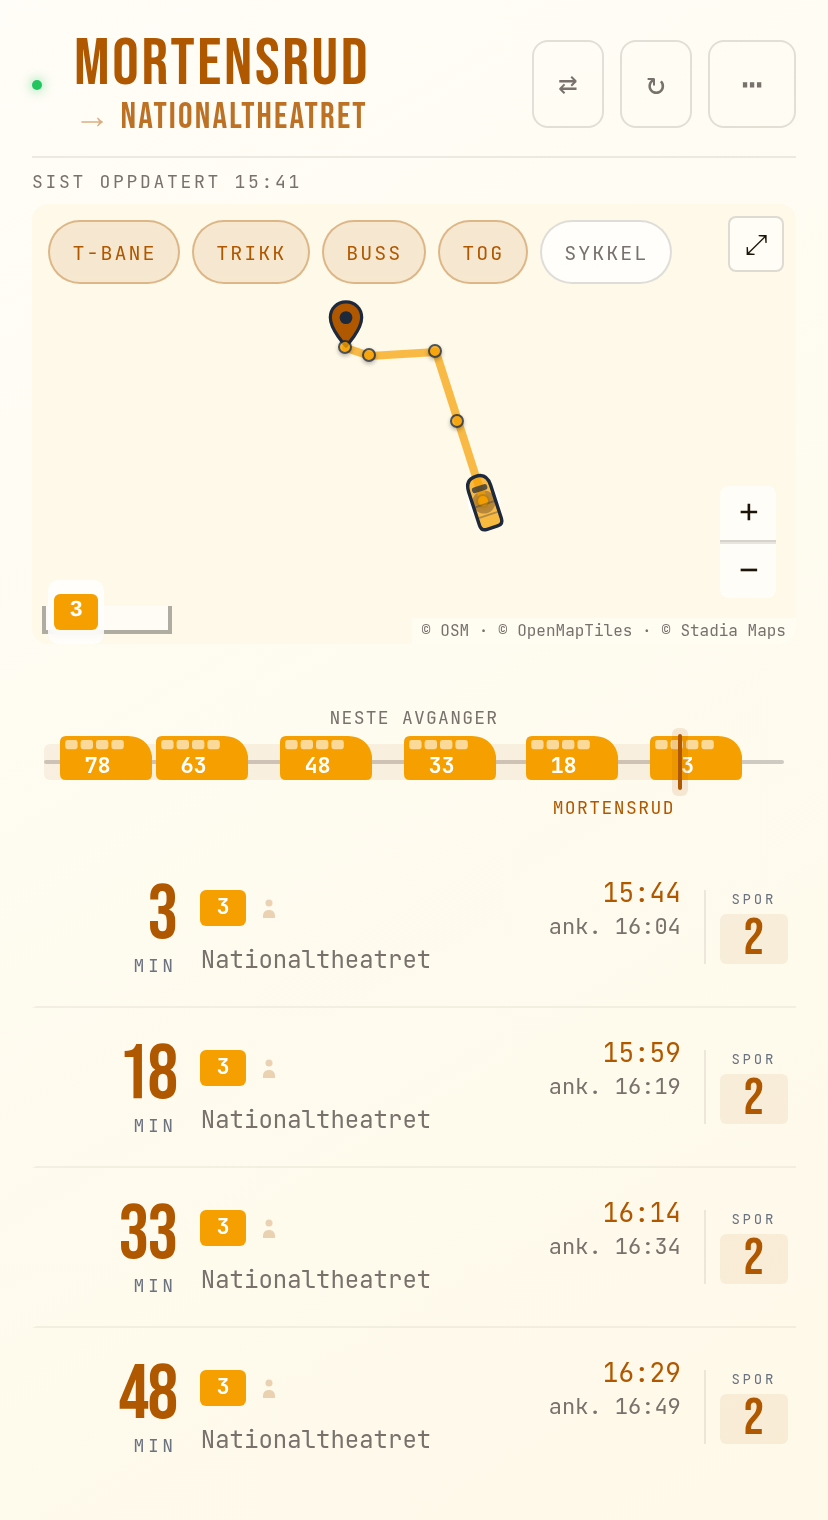
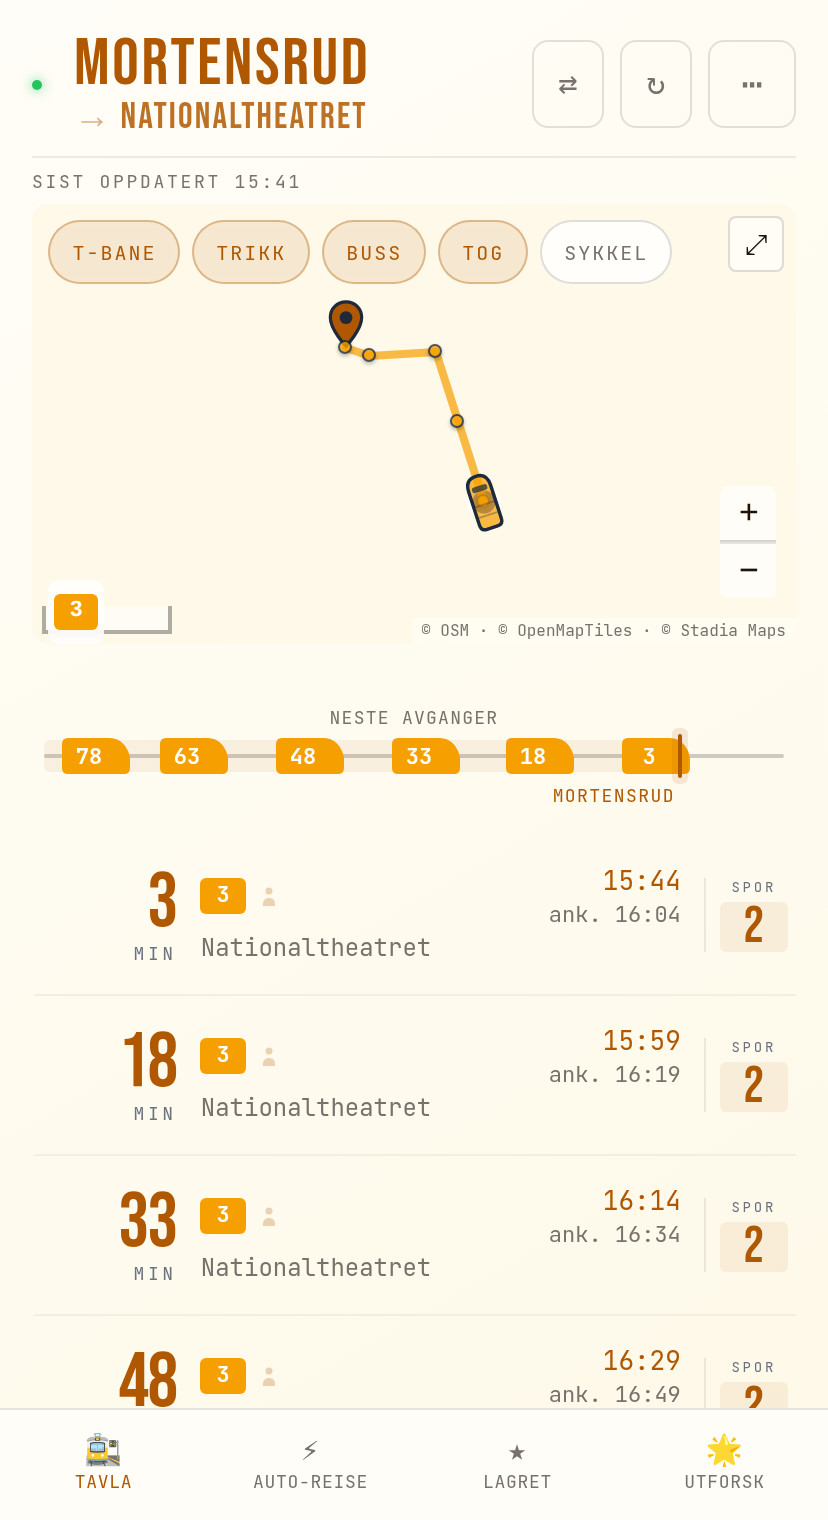
v1.65.0: Mindre vogn, tydeligere tall (#298)
Rapportert: «ikonene på strip er mindre og enklere — slik at betydningen
kommer tydeligere frem.»

Det er en korreksjon av v1.59.0, og den er riktig. Den gangen sa pilla
ingenting, og jeg svarte med et sidebilde — og fortsatte å legge på detalj
til det leste som en vogn: vindusbånd delt i ruter, hjul under trikk og buss,
kraftig neserake, 40–48 px bred. Detaljene ble det du ser først, og minuttene
er det du handler på.

Nå: kropp, farge, tall. Ingenting mer. Kroppen mistet en fjerdedel av bredden
mens tallet beholdt 11 px, så forholdet mellom dem er snudd uten at tallet er
blitt vanskeligere å lese. Stripa er tilbake på 22 px, og alt som var festet
til de 28 — skinnelinja, sonetonen, «du er her»-merket, avgangsanimasjonen —
fulgte med ned.

Én ting målt og verdt å si rett ut: da vinduene og hjulene forsvant, ble de
fire modusene tegnet i samme farge til forveksling like. Det ble sjekket ved
å rendre dem uten farge, ikke antatt. Så nesa fikk hele formbudsjettet — tog
raker tilbake nesten halve lengden, buss har rett front — og det hjelper fra
2× og opp. Ved faktisk størrelse er det fargen som bærer modus. Det er en
reell konsekvens av forenklingen du ba om, og den bør stå skrevet framfor å
bli påstått bort: for en fargeblind leser er modusskillet på stripa svakere
enn før. Linjebadgen i raden under sier det fortsatt.

Målt: tettheten er uendret. En smalere glyf klynger mindre i teorien, men på
en fikstur med avgang annethvert minutt ga både før og etter 7 glyfer, 3
[…]

diff --git a/src/ui/mapIcons.js b/src/ui/mapIcons.js
@@ -209,11 +209,14 @@ export function makeVehicleIcon(mode, color, opts = {}) {
  * @param {boolean} [dim] the quieter treatment for a train already gone
  */
 const _SIDE = {
-  //        nose = how far the front rakes back    wheels for road/street rail
-  metro: { len: 46, nose: 12, wheels: false },
-  rail:  { len: 48, nose: 16, wheels: false },
-  tram:  { len: 44, nose: 10, wheels: true },
-  bus:   { len: 40, nose: 7,  wheels: true },
+  // With the panes and wheels gone, the nose is the ONLY shape left to tell
+  // the modes apart, so it carries the whole spread: a rail set rakes back
+  // half its length, a bus front is square. Checked by rendering all four in
+  // one colour — at 34/36/32/30 with a gentle rake they were the same lozenge.
+  metro: { len: 34, nose: 10 },
+  rail:  { len: 38, nose: 16 },
+  tram:  { len: 32, nose: 6 },
+  bus:   { len: 30, nose: 0 },
 };
 
 export function sideVehicleSvg(mode, color, label, dim) {
@@ -223,48 +226,37 @@ export function sideVehicleSvg(mode, color, label, dim) {
   const m = _SIDE[mode] ? mode : 'metro';
   const sh = _SIDE[m];
   const body = color || _MODE_COLOUR[m];
-  const w = sh.len, h = 26;
-  const bh = sh.wheels ? 20 : 22;           // wheels need room beneath
-  const y = 1;
+  const w = sh.len, h = 22;
+  const bh = 18;
+  const y = 2;
   const r = (n) => Math.round(n * 100) / 100;
   // Nose to the RIGHT: the strip runs left to right towards your stop, so the
   // vehicle faces the way it is travelling and the way the reader is reading.
-  // The rake is the whole silhouette at this size — a subtle one was tried
-  // first, and read as a rounded rectangle with a dot on it.
+  // The rake is gentler than v1.59.0's — at this size a hard wedge reads as a
+  // shape being clever rather than as a front.
   const d = 'M0 ' + (y + 3)
     + 'Q0 ' + y + ' 3 ' + y
     + 'L' + r(w - sh.nose) + ' ' + y
-    + 'Q' + r(w - sh.nose * 0.15) + ' ' + r(y + 0.5) + ' ' + w + ' ' + r(y + bh * 0.45)
+    + 'Q' + r(w - sh.nose * 0.2) + ' ' + r(y + 0.5) + ' ' + w + ' ' + r(y + bh * 0.55)
     + 'L' + w + ' ' + r(y + bh - 3)
     + 'Q' + w + ' ' + r(y + bh) + ' ' + r(w - 3) + ' ' + r(y + bh)
     + 'L3 ' + r(y + bh) + 'Q0 ' + r(y + bh) + ' 0 ' + r(y + bh - 3) + 'Z';
-  // A window band along the roof, cut into panes — the same job the carriage
-  // joints do in the plan view: it says "vehicle" before anything is read.
-  const bandY = y + 2, bandH = 4.6;
-  const bandEnd = w - sh.nose * 0.55;
-  const panes = [];
-  const paneW = 6.2;
-  for (let x = 2.6; x + paneW < bandEnd; x += paneW + 1.5) {
-    panes.push('<rect x="' + r(x) + '" y="' + r(bandY) + '" width="' + paneW
-      + '" height="' + bandH + '" rx="1.2" fill="#fff" opacity="' + (dim ? '.4' : '.6') + '"/>');
-  }
-  const wheels = sh.wheels
-    ? '<circle cx="' + r(w * 0.26) + '" cy="' + r(y + bh + 1.9) + '" r="2.4" fill="' + body + '"'
-      + ' fill-opacity="' + (dim ? '.55' : '1') + '"/>'
-      + '<circle cx="' + r(w * 0.72) + '" cy="' + r(y + bh + 1.9) + '" r="2.4" fill="' + body + '"'
-      + ' fill-opacity="' + (dim ? '.55' : '1') + '"/>'
-    : '';
-  // The minutes sit on the body's floor rather than under the band: "nå" has a
-  // ring over the å, and band-relative placement put it through the windows.
+  // Body, colour, number. Nothing else.
+  //
+  // v1.59.0 had a window band cut into panes and wheels under the road modes,
+  // and they worked — you could tell a bus from a train. Reported since: they
+  // are what you see FIRST, and the minutes are what you act on. So the body
+  // shrank by a quarter while the number stayed 11px, which inverts the two
+  // without making the number any harder to read; and the decoration went,
+  // because at 30px it was texture rather than information. Mode is still
+  // carried by length, by the rake of the nose, and above all by colour.
   return '<svg class="ls-veh" width="' + w + '" height="' + h + '"'
     + ' viewBox="0 0 ' + w + ' ' + h + '" aria-hidden="true" focusable="false">'
     + '<path d="' + d + '" fill="' + body + '" fill-opacity="' + (dim ? '.55' : '1') + '"/>'
-    + panes.join('')
-    + '<text x="' + r((w - sh.nose * 0.7) / 2) + '" y="' + r(y + bh - 3.5) + '"'
+    + '<text x="' + r((w - sh.nose * 0.7) / 2) + '" y="' + r(y + bh / 2 + 3.9) + '"'
     + ' text-anchor="middle" font-family="JetBrains Mono, ui-monospace, monospace"'
     + ' font-size="11" font-weight="700" fill="#fff"'
     + ' opacity="' + (dim ? '.85' : '1') + '">' + label + '</text>'
-    + wheels
     + '</svg>';
 }
 

diff --git a/tests/mapIcons.test.js b/tests/mapIcons.test.js
@@ -159,12 +159,48 @@ describe('sideVehicleSvg', () => {
     expect(new Set(widths).size).toBe(4);
   });
 
-  it('draws wheels under the road and street modes only', () => {
-    const circles = (m) => (svg(m, null, '5').match(/<circle/g) || []).length;
-    expect(circles('tram')).toBe(2);
-    expect(circles('bus')).toBe(2);
-    expect(circles('metro')).toBe(0);
-    expect(circles('rail')).toBe(0);
+  // v1.65.0, and the rule that replaced the wheels-and-windows one. Reported:
+  // "ikonene på strip er mindre og enklere - slik at betydningen kommer
+  // tydeligere frem". The window band and the wheels worked — you could tell a
+  // bus from a train — but they were what you saw FIRST, and the minutes are
+  // what you act on. Body, colour, number; nothing else. Without this test the
+  // decoration creeps back one detail at a time.
+  it('draws nothing but a body and its number', () => {
+    ['metro', 'rail', 'tram', 'bus'].forEach(m => {
+      const s = svg(m, null, '12');
+      expect((s.match(/<path/g) || []).length).toBe(1);
+      expect((s.match(/<text/g) || []).length).toBe(1);
+      expect(s).not.toContain('<circle');   // wheels
+      expect(s).not.toContain('<rect');     // window panes
+      expect(s).not.toContain('<line');
+    });
+  });
+
+  // With the decoration gone the nose is the ONLY shape left to separate the
+  // modes, so it has to carry a real spread — rendered in one colour, a gentle
+  // rake on all four made them the same lozenge. A rail set rakes back nearly
+  // half its length; a bus front is square.
+  it('spends its whole shape budget on the nose', () => {
+    const nose = (m) => {
+      const d = svg(m, null, '12').match(/<path d="([^"]*)"/)[1];
+      const w = Number(svg(m, null, '12').match(/\swidth="([^"]*)"/)[1]);
+      // The straight roof runs to (w - nose) before the rake begins.
+      return w - Number(d.match(/L([\d.]+) 2/)[1]);
+    };
+    expect(nose('bus')).toBe(0);
+    expect(nose('rail')).toBeGreaterThan(12);
+    expect(nose('rail')).toBeGreaterThan(nose('metro'));
+    expect(nose('metro')).toBeGreaterThan(nose('tram'));
+    expect(nose('tram')).toBeGreaterThan(nose('bus'));
+  });
+
+  // The number is why the glyph shrank at all: the body lost a quarter of its
+  // width while the label kept its size, which inverts the two. If the label
+  // ever shrinks with the body, the change has undone itself.
+  it('keeps the number at full size while the body is small', () => {
+    const s = svg('bus', null, '-12');
+    expect(s).toContain('font-size="11"');
+    expect(Number(s.match(/\swidth="([^"]*)"/)[1])).toBeLessThanOrEqual(38);
   });
 
   it('falls back to the metro silhouette for a mode it does not know', () => {
@@ -214,7 +250,10 @@ describe('sideVehicleSvg', () => {
     const gone = svg('metro', null, '-3', true);
     const here = svg('metro', null, '3', false);
     // Same parts, less presence — a departed train is context, not absence.
-    expect((gone.match(/<rect/g) || []).length).toBe((here.match(/<rect/g) || []).length);
+    // Compared on the parts that exist: the pane count this used to compare
+    // is zero on both sides now, which would pass without asserting anything.
+    expect((gone.match(/<path/g) || []).length).toBe((here.match(/<path/g) || []).length);
+    expect(gone).toContain('>-3</text>');
     expect(gone).toContain('fill-opacity=".55"');
     expect(here).toContain('fill-opacity="1"');
   });
@@ -226,8 +265,8 @@ describe('SIDE_VEHICLE_MAX_PX', () => {
   // board.test.js stubs this module and hardcodes the number, because the
   // strip reads it at module scope. Pinned here so a wider silhouette fails
   // in the one place that can see both sides.
-  it('is 48 — the number board.test.js stubs', () => {
-    expect(SIDE_VEHICLE_MAX_PX).toBe(48);
+  it('is 38 — the number board.test.js stubs', () => {
+    expect(SIDE_VEHICLE_MAX_PX).toBe(38);
   });
 
   it('is the widest silhouette any mode draws', () => {

diff --git a/src/style/board.css b/src/style/board.css
@@ -409,22 +409,22 @@
 }
 
 .ls-rail{
-  /* Room for a vehicle rather than a pill: a side view needs a window band
-     AND its minutes, and 22px could carry only one of them legibly. */
-  position:relative;height:28px;
+  /* 28px in v1.59.0, to carry a window band AND the minutes. The band is
+     gone (the decoration was what you saw first), so the height goes back. */
+  position:relative;height:22px;
   border-radius:2px;
 }
 .ls-rail::before{
-  content:"";position:absolute;left:0;right:0;top:13px;height:2px;
+  content:"";position:absolute;left:0;right:0;top:10px;height:2px;
   background:rgba(var(--text-muted-rgb),.35);border-radius:1px;
 }
 /* Tint behind each half, so the split reads before the captions are read. */
-.ls-zone{position:absolute;top:5px;height:18px;border-radius:3px}
+.ls-zone{position:absolute;top:3px;height:16px;border-radius:3px}
 .ls-zone-appr{left:0;background:rgba(var(--accent-rgb),.07)}
 
 /* Which way the line runs. One arrowhead for the whole rail. */
 .ls-arrow{
-  position:absolute;right:0;top:6px;
+  position:absolute;right:0;top:4px;
   width:0;height:0;
   border-top:5px solid transparent;
   border-bottom:5px solid transparent;
@@ -433,7 +433,7 @@
 
 /* Your stop: a divide between the two halves, not just another tick. */
 .ls-you{
-  position:absolute;top:0;width:2px;height:28px;margin-left:-1px;
+  position:absolute;top:0;width:2px;height:22px;margin-left:-1px;
   background:var(--accent);border-radius:1px;
   box-shadow:0 0 0 3px rgba(var(--accent-rgb),.12);
 }
@@ -442,7 +442,7 @@
   /* Anchored on its centre, like the pill it replaces, so the axis maths
      upstream needs no change. */
   transform:translateX(-50%);
-  height:26px;
+  height:22px;
   display:flex;align-items:center;
   font-family:"JetBrains Mono",ui-monospace,monospace;
   font-size:10px;font-weight:700;line-height:1;
@@ -592,7 +592,7 @@ html.view-board.map-open #dep-list{
    in the room kept to the right of the origin. It plays once — see
    _departedSeen — and it marks a real event rather than decorating one. */
 @keyframes ls-depart{
-  0%   { transform:translateX(-22px) scale(.9); opacity:.35 }
+  0%   { transform:translateX(-16px) scale(.9); opacity:.35 }
   60%  { transform:translateX(3px)   scale(1.06); opacity:1 }
   100% { transform:translateX(0)     scale(1); opacity:1 }
 }

diff --git a/tests/board.test.js b/tests/board.test.js
@@ -6,11 +6,11 @@ vi.mock('leaflet', () => ({ default: {} }));
 // The real module reaches Leaflet, so it is stubbed — but SIDE_VEHICLE_MAX_PX
 // is read at module scope to size the strip's clustering threshold, so the
 // stub has to carry the real number or the clustering tests below measure a
-// board nobody ships. mapIcons.test.js pins it to this same 48.
+// board nobody ships. mapIcons.test.js pins it to this same 38.
 vi.mock('../src/ui/mapIcons.js', () => ({
   makeStopIcon: vi.fn(), makeVehicleIcon: vi.fn(), makeRouteStopIcon: vi.fn(),
   mapHalo: vi.fn(() => '#fff'), sideVehicleSvg: vi.fn(() => '<svg/>'),
-  SIDE_VEHICLE_MAX_PX: 48,
+  SIDE_VEHICLE_MAX_PX: 38,
 }));
 vi.mock('../src/ui/mapCompass.js', () => ({ addCompass: vi.fn() }));
 vi.mock('../src/views/spectate.js', () => ({ closeSpectatePanel: vi.fn() }));
@@ -494,7 +494,8 @@ describe('_buildStrip — the lookback window', () => {
   // single glyph with a +N badge. Spreading them was tried and measured: the
   // rail's axis is not linear across your stop — the strip right of it maps
   // about 0.19 of the width onto an axis unit against ~0.82 on the left — so
-  // three "separated" glyphs landed 6px apart at 414px, against a 46px glyph.
+  // three "separated" glyphs landed 6px apart at 414px, against a glyph
+  // 46px wide at the time (38px since v1.65.0).
   // Overlapping glyphs swallow each other's taps.
   it('gives every departed train the same position, so they cluster', () => {
     const s = strip([at(-2, 'old'), at(-1, 'mid'), at(0, 'justnow', -5)]);

diff --git a/src/views/board.js b/src/views/board.js
@@ -1565,7 +1565,7 @@ export function _buildStrip(candidates, dir, lineOn, now, livePos) {
   // linear across the rail: the half left of your stop maps ~0.82 of the
   // width onto one axis unit, the strip right of it ~0.19 onto the same unit,
   // so a separation that looks generous in axis units is about 6px there
-  // against a 46px glyph. Spreading them produced overlapping glyphs, and an
+  // against a glyph that was 46px wide then and is 38px now. Spreading them produced overlapping glyphs, and an
   // overlapping glyph swallows the taps of the one beneath it.
   out.trains.forEach(t => { t.pos = t.departed ? _STRIP_GONE_AT : -(t.mins / maxMins); });
   // Most recently gone first, so it leads its cluster: of the trains that have
